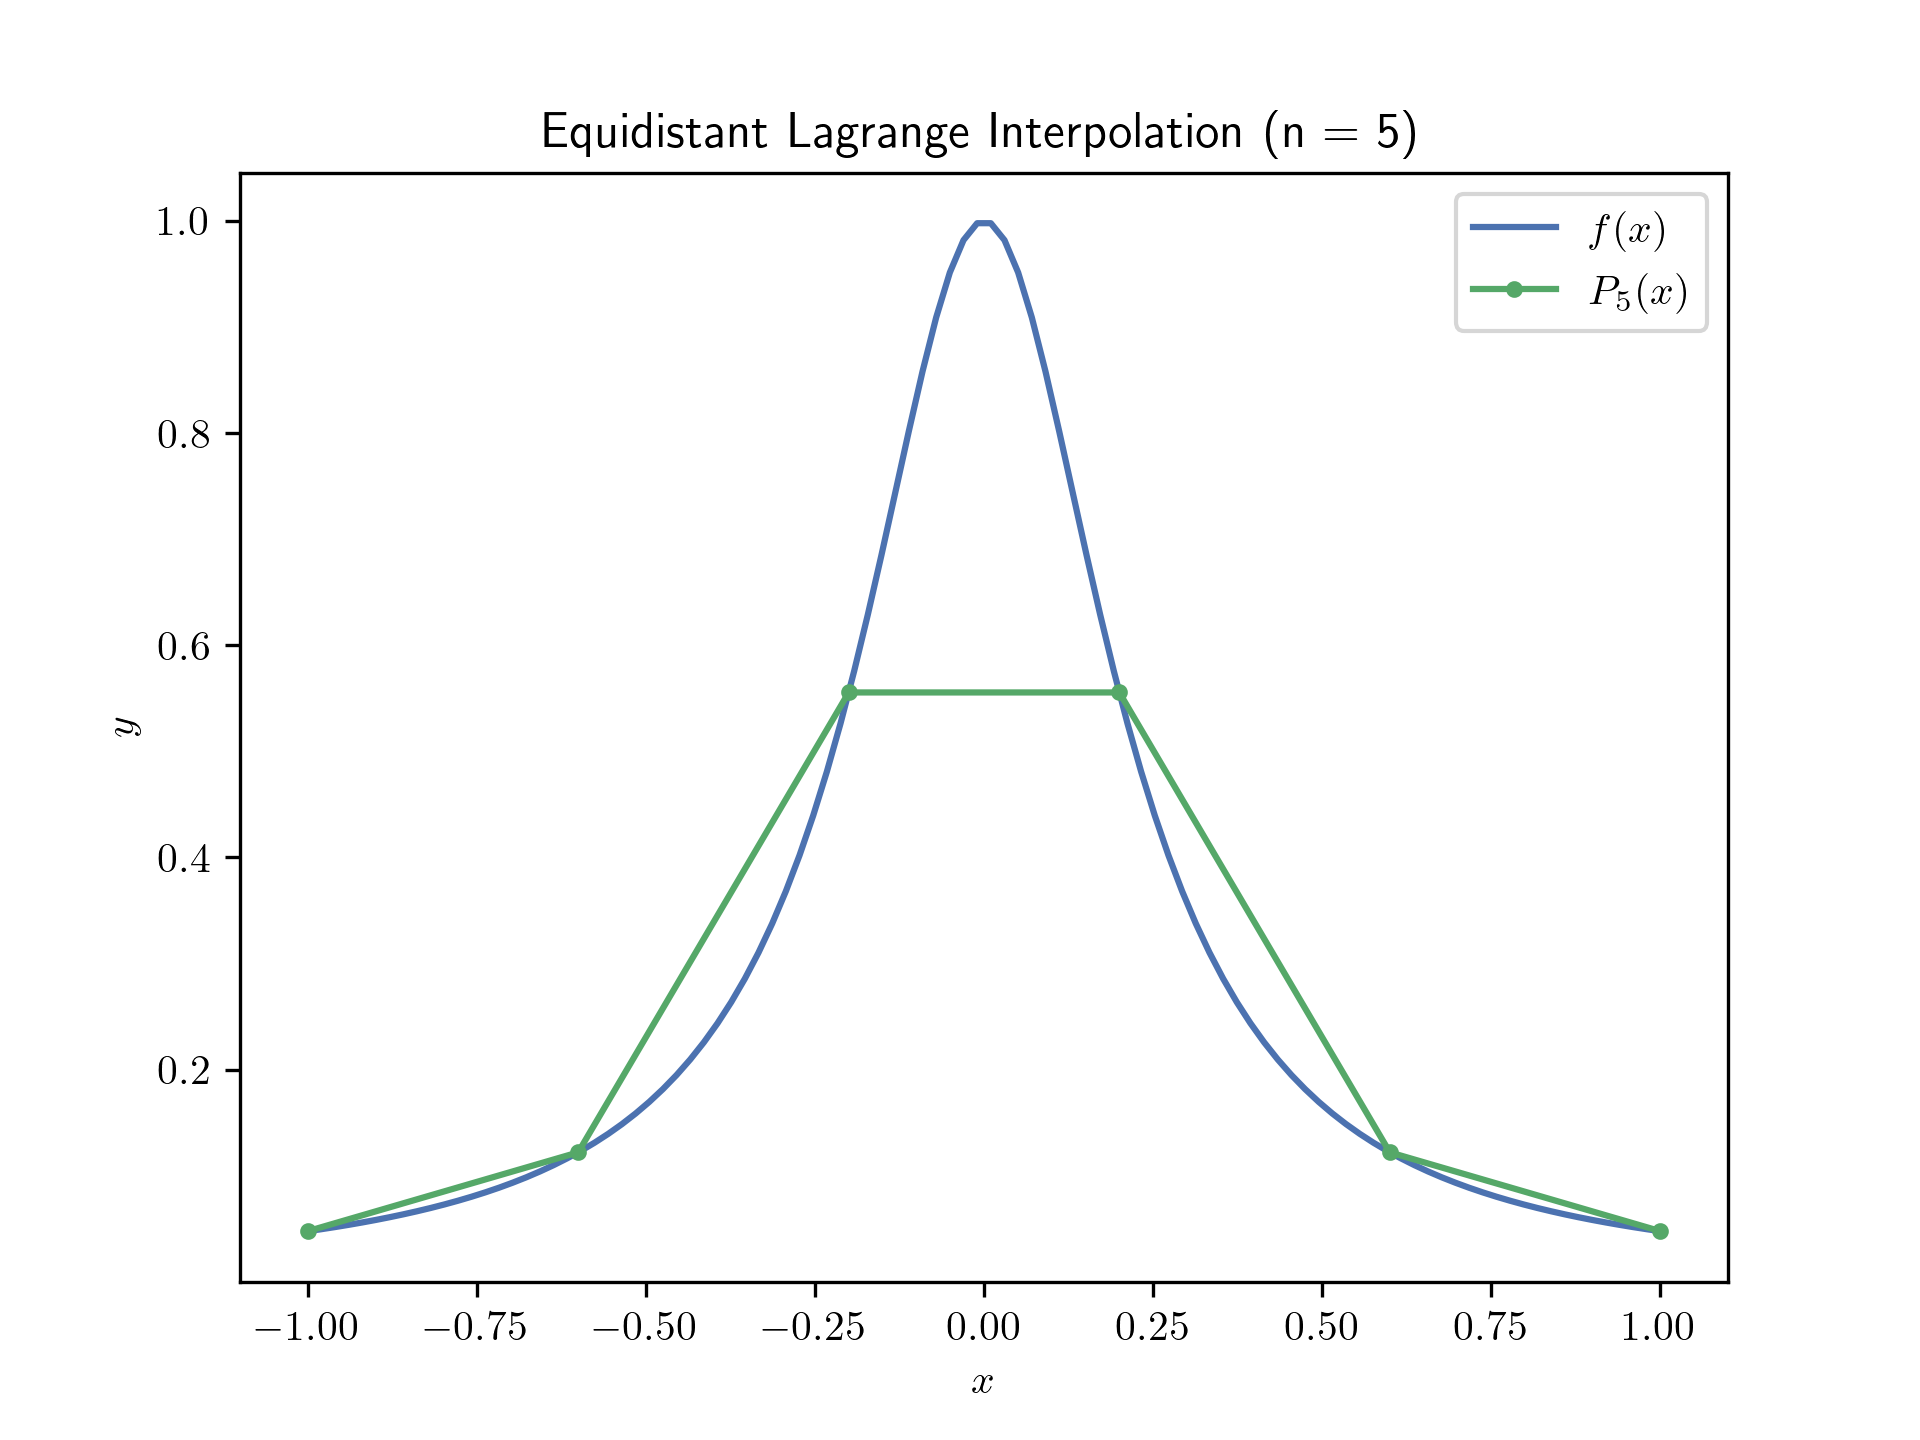
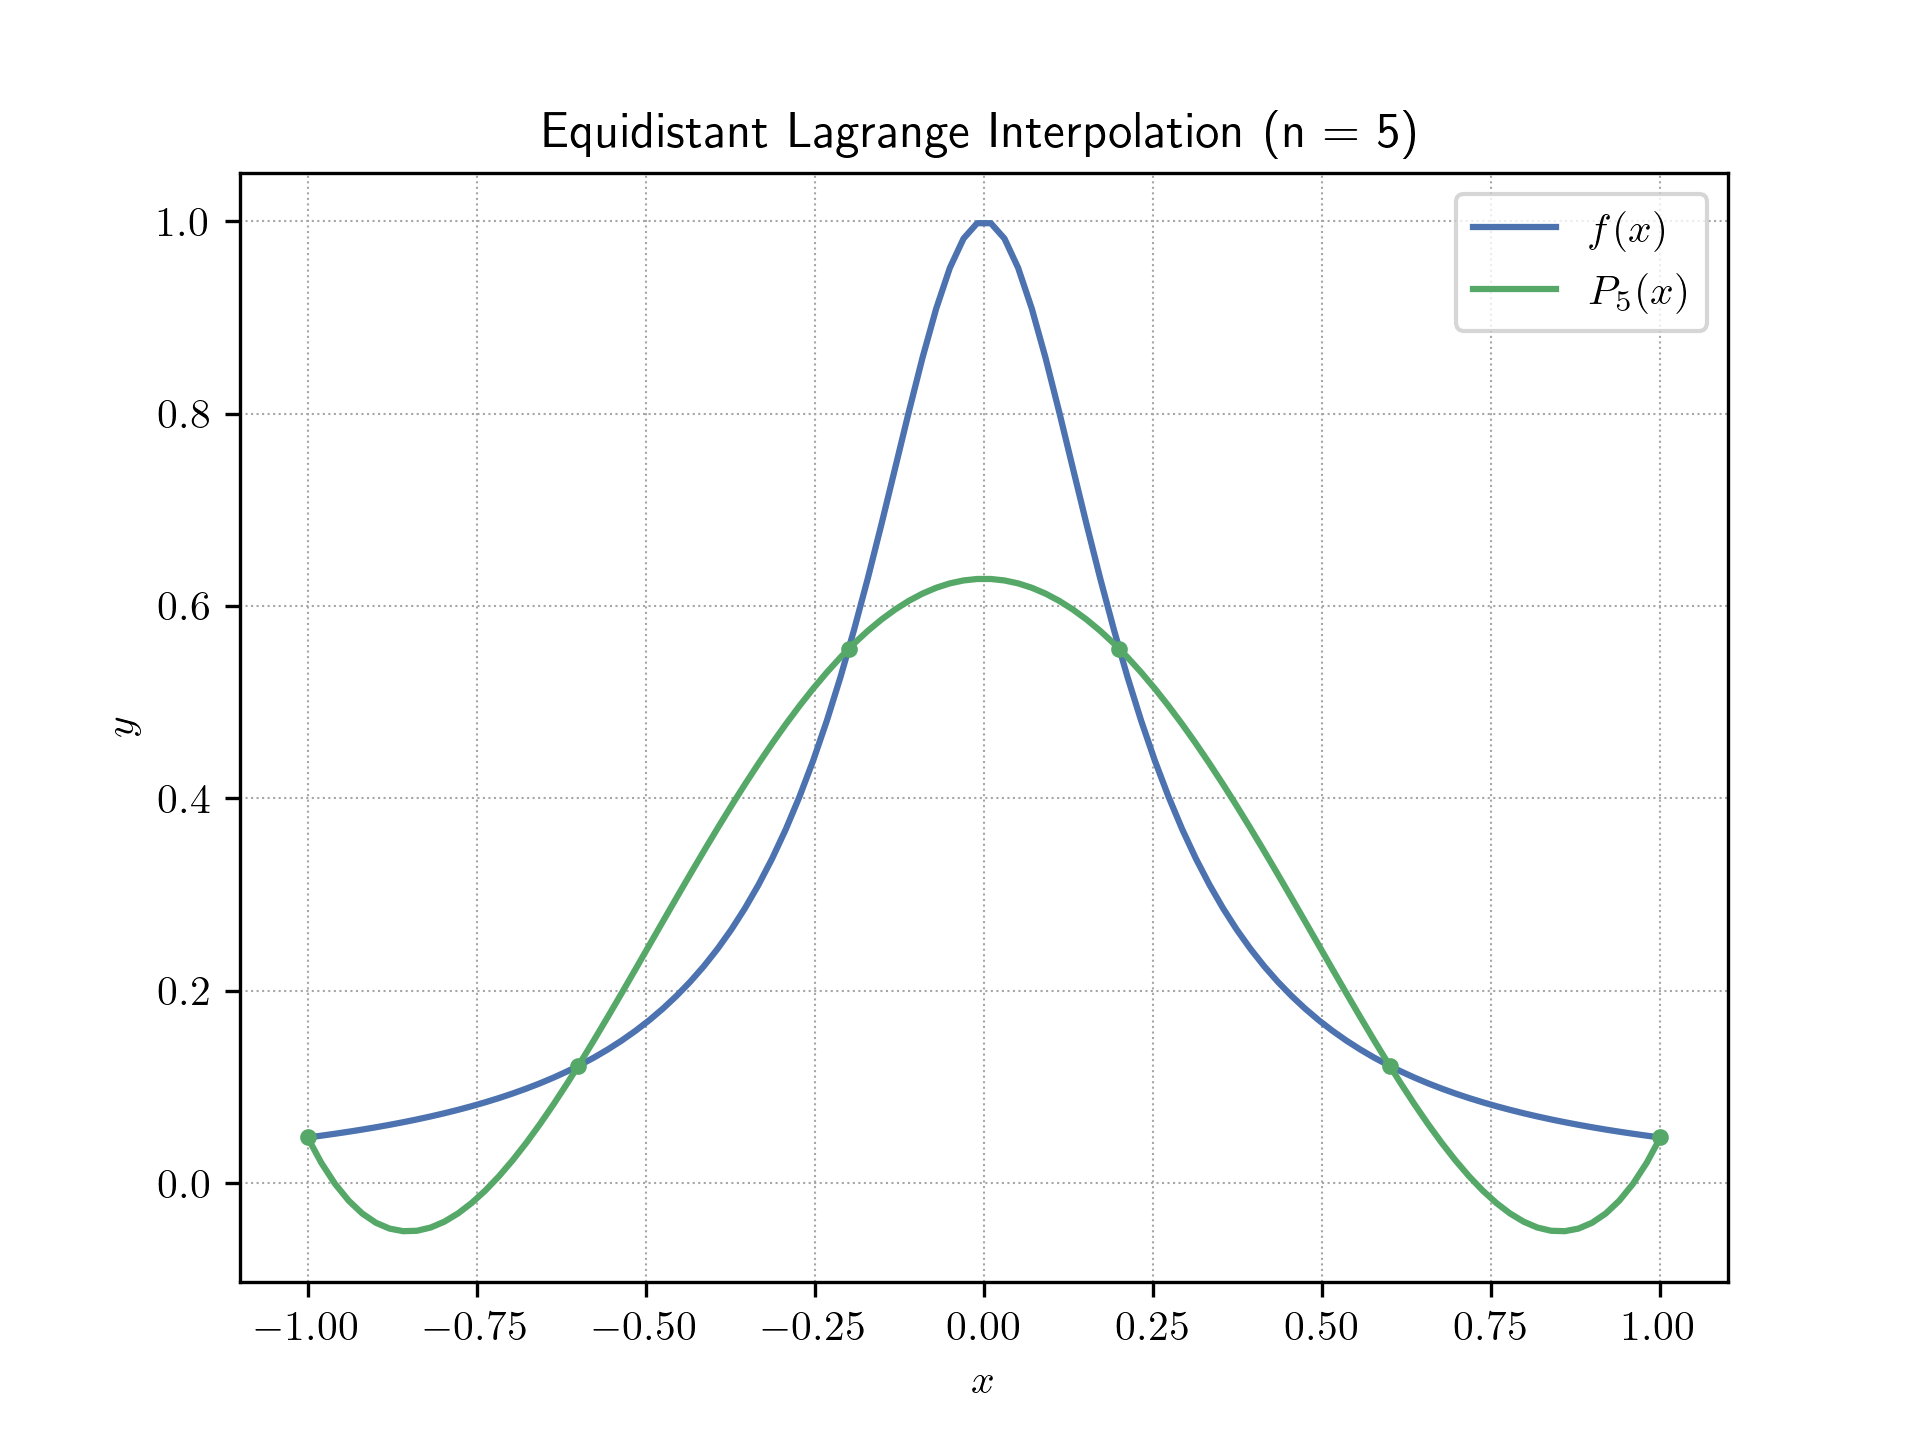
Add Figures Class and Equation Creation
This commit introduces a `Figure` class to streamline the process of
generating and saving plots. Plotting function calls have been
refactored in the main script to utilize this new class.

Additionally, a function to generate the Lagrange polynomial in LaTeX
format has been implemented. Generated equations are written to txt
files in the main method.

diff --git a/assignment_2/assignment_2.py b/assignment_2/assignment_2.py
@@ -1,6 +1,7 @@
 import math
 import numpy as np
 import matplotlib.pyplot as plt
+from figures import Figure
 
 
 def f(x):
@@ -40,98 +41,133 @@ def calculate_lagrange(nodes, a, x):
     return y
 
 
-def calculate_lagrange_output(nodes):
+def generate_equation(nodes, degree):
     a = lagrange_coefficients(nodes)
-    y_coordinates = np.array([calculate_lagrange(nodes, a, x) for x in nodes])
+    equation = f"$P_{degree}(x) = {a[0]}"
+    w = [(f"(x - {xi})") for xi in nodes]
+    b = ""
+
+    for i in range(1, len(a)):
+        for j in range(i):
+            b += w[j]
+        equation += f" + {a[i]}{b}"
+        b = ""
+
+    return equation + "$"
+
+
+def calculate_lagrange_output(nodes, x_coords=[]):
+    a = lagrange_coefficients(nodes)
+    if len(x_coords) == 0:
+        x_coords = nodes
+    y_coordinates = np.array([calculate_lagrange(nodes, a, x) for x in x_coords])
 
     return y_coordinates
 
 
 def chebyshev_nodes(n):
     nodes = np.array(
-        [(math.cos((2 * k - 1) * math.pi / (2 * n))) for k in range(1, n+1)]
+        [(math.cos((2 * k - 1) * math.pi / (2 * n))) for k in range(1, n + 1)]
     )
 
     return nodes
 
-def plot_functions(x_sets, y_sets, color_nums, markers, labels, title="", xlabel=r"$x$", ylabel=r"$y$"):
-    # Enable Latex
-    plt.rcParams["text.usetex"] = True
-    # Styling
-    plt.style.use("seaborn-v0_8-deep")
-    plt.rc("grid", color="#a6a6a6", linestyle="dotted", linewidth=0.5)
-    prop_cycle = plt.rcParams['axes.prop_cycle']
-    default_colors = prop_cycle.by_key()['color']
-    
-    total_functions = len(x_sets)
-    fig, ax = plt.subplots()
-    for i in range(total_functions):
-        ax.plot(x_sets[i], y_sets[i], color=default_colors[color_nums[i]], marker=markers[i], label=labels[i])
-
-    ax.set_title(title)
-    ax.set_xlabel(xlabel)
-    ax.set_ylabel(ylabel)
-    ax.legend()
-    return fig
 
 if __name__ == "__main__":
     # Question 2
+    # NOTE: 2.2 and 2.3 are to be executed independently, 
+    # comment out one when executing the other.
+    title = "Equidistant Lagrange Interpolation"
     x = np.linspace(-1, 1, 100)
     y = f(x)
+    fig_f = Figure(x, y, r"$f(x)$")
 
     # Question 2.2 (Equidistant Nodes)
-    # n+1 nodes for P_n
-    five_x = np.linspace(-1, 1, 6)
-    five_y = calculate_lagrange_output(five_x)
+    #-----------------------------------------------------------
+    # nodes_deg_5 = np.linspace(-1, 1, 6)
+    # y_nodes_5 = calculate_lagrange_output(nodes_deg_5)
+    # y_poly_5 = calculate_lagrange_output(nodes_deg_5, x)
+    # f1 = Figure(x, y_poly_5, r"$P_5(x)$", 1)
+    # f2 = Figure(nodes_deg_5, y_nodes_5, "", 1, ".", "")
 
-    ten_x = np.linspace(-1, 1, 11)
-    ten_y = calculate_lagrange_output(ten_x)
+    # nodes_deg_10 = np.linspace(-1, 1, 11)
+    # y_nodes_10 = calculate_lagrange_output(nodes_deg_10)
+    # y_poly_10 = calculate_lagrange_output(nodes_deg_10, x)
+    # f3 = Figure(x, y_poly_10, r"$P_{10}(x)$", 2)
+    # f4 = Figure(nodes_deg_10, y_nodes_10, "", 2, ".", "")
 
-    twenty_x = np.linspace(-1, 1, 21)
-    twenty_y = calculate_lagrange_output(twenty_x)
+    # nodes_deg_20 = np.linspace(-1, 1, 21)
+    # y_nodes_20 = calculate_lagrange_output(nodes_deg_20)
+    # y_poly_20 = calculate_lagrange_output(nodes_deg_20, x)
+    # f5 = Figure(x, y_poly_20, r"$P_{20}(x)$", 3)
+    # f6 = Figure(nodes_deg_20, y_nodes_20, "", 3, ".", "")
+
+    # # Merge and plot figures
+    # fig1 = fig_f.copy().merge([f1, f2], title + " (n = 5)")
+    # fig2 = fig_f.copy().merge([f3, f4], title + " (n = 10)")
+    # fig3 = fig_f.copy().merge([f5, f6], title + " (n = 20)")
+    # fig4 = fig_f.copy().merge([f1, f3, f5])
+    # fig1.get_figure('./plots_2/q2_2/p5.png')
+    # fig2.get_figure('./plots_2/q2_2/p10.png')
+    # fig3.get_figure('./plots_2/q2_2/p20.png')
+    # fig4.get_figure('./plots_2/q2_2/all.png')
+
+    # # Generate and save equations to a text file
+    # equations = [
+    #     generate_equation(nodes_deg_5, 5),
+    #     generate_equation(nodes_deg_10, 10),
+    #     generate_equation(nodes_deg_20, 20),
+    # ]
     
-    x_sets = [x, five_x, ten_x, twenty_x]
-    y_sets = [y, five_y, ten_y, twenty_y]
-    labels = [r"$f(x)$",r"$P_5(x)$",r"$P_{10}(x)$",r"$P_{20}(x)$"]
-    title = 'Equidistant Lagrange Interpolation'
-    
-    fig1 = plot_functions(x_sets[:2], y_sets[:2], [0,1], ['','.'], labels[:2], title+" (n = 5)")
-    fig2 = plot_functions(x_sets[:3:2], y_sets[:3:2], [0,2], ['','.'], labels[:3:2], title+" (n = 10)")
-    fig3 = plot_functions(x_sets[:4:3], y_sets[:4:3], [0,3], ['','.'],labels[:4:3], title+" (n = 20)")
-    fig4 = plot_functions(x_sets, y_sets, [i for i in range(4)], ['','','',''], labels, title)
-    
-    # Save Figures
-    # fig1.savefig('<path>/plots_2/p5.png', dpi = 300)
-    # fig2.savefig('<path>/plots_2/p10.png', dpi = 300)
-    # fig3.savefig('<path>/plots_2/p20.png', dpi = 300)
-    # fig4.savefig('<path>/plots_2/all.png', dpi = 300)
-    
-    plt.show()
-    
+    # with open("/Users/User/Repos/numerical_analysis/assignment_2/plots_2/q2_2/lagrange_equations.txt", "w") as f:
+    #     for eq in equations:
+    #         f.write(eq + "\n")
+
+    # plt.show()
+    #-----------------------------------------------------------
+
     # Question 2.3 (Chebyshev Nodes)
-    five_x = chebyshev_nodes(6)
-    five_y = calculate_lagrange_output(five_x)
+    #-----------------------------------------------------------
+    # title = "Chebyshev Lagrange Interpolation"
 
-    ten_x = chebyshev_nodes(11)
-    ten_y = calculate_lagrange_output(ten_x)
+    # nodes_deg_5 = chebyshev_nodes(6)
+    # y_nodes_5 = calculate_lagrange_output(nodes_deg_5)
+    # y_poly_5 = calculate_lagrange_output(nodes_deg_5, x)
+    # f1 = Figure(x, y_poly_5, r"$P_5(x)$", 1)
+    # f2 = Figure(nodes_deg_5, y_nodes_5, "", 1, ".", "")
 
-    twenty_x = chebyshev_nodes(21)
-    twenty_y = calculate_lagrange_output(twenty_x)
+    # nodes_deg_10 = chebyshev_nodes(11)
+    # y_nodes_10 = calculate_lagrange_output(nodes_deg_10)
+    # y_poly_10 = calculate_lagrange_output(nodes_deg_10, x)
+    # f3 = Figure(x, y_poly_10, r"$P_{10}(x)$", 2)
+    # f4 = Figure(nodes_deg_10, y_nodes_10, "", 2, ".", "")
+
+    # nodes_deg_20 = chebyshev_nodes(21)
+    # y_nodes_20 = calculate_lagrange_output(nodes_deg_20)
+    # y_poly_20 = calculate_lagrange_output(nodes_deg_20, x)
+    # f5 = Figure(x, y_poly_20, r"$P_{20}(x)$", 3)
+    # f6 = Figure(nodes_deg_20, y_nodes_20, "", 3, ".", "")
+
+    # # Merge and plot figures
+    # fig1 = fig_f.copy().merge([f1, f2], title + " (n = 5)")
+    # fig2 = fig_f.copy().merge([f3, f4], title + " (n = 10)")
+    # fig3 = fig_f.copy().merge([f5, f6], title + " (n = 20)")
+    # fig4 = fig_f.copy().merge([f1, f3, f5])
+    # fig1.get_figure('./plots_2/q2_3/chebyshev_p5.png')
+    # fig2.get_figure('./plots_2/q2_3/chebyshev_p10.png')
+    # fig3.get_figure('./plots_2/q2_3/chebyshev_p20.png')
+    # fig4.get_figure('./plots_2/q2_3/chebyshev_all.png')
+
+    # # Generate and save equations to a text file
+    # equations = [
+    #     generate_equation(nodes_deg_5, 5),
+    #     generate_equation(nodes_deg_10, 10),
+    #     generate_equation(nodes_deg_20, 20),
+    # ]
     
-    x_sets = [x, five_x, ten_x, twenty_x]
-    y_sets = [y, five_y, ten_y, twenty_y]
-    labels = [r"$f(x)$",r"$P_5(x)$",r"$P_{10}(x)$",r"$P_{20}(x)$"]
-    title = 'Chebyshev Lagrange Interpolation'
-    
-    fig1 = plot_functions(x_sets[:2], y_sets[:2], [0,1], ['','.'], labels[:2], title+" (n = 5)")
-    fig2 = plot_functions(x_sets[:3:2], y_sets[:3:2], [0,2], ['','.'], labels[:3:2], title+" (n = 10)")
-    fig3 = plot_functions(x_sets[:4:3], y_sets[:4:3], [0,3], ['','.'],labels[:4:3], title+" (n = 20)")
-    fig4 = plot_functions(x_sets, y_sets, [i for i in range(4)], ['','','',''], labels, title)
-    
-    # Save Figures
-    # fig1.savefig('<path>/plots_2/q2_3/chebyshev_p5.png', dpi = 300)
-    # fig2.savefig('<path>/plots_2/q2_3/chebyshev_p10.png', dpi = 300)
-    # fig3.savefig('<path>/plots_2/q2_3/chebyshev_p20.png', dpi = 300)
-    # fig4.savefig('<path>/plots_2/q2_3/chebyshev_all.png', dpi = 300)
-    
-    plt.show()
+    # with open("/Users/User/Repos/numerical_analysis/assignment_2/plots_2/q2_3/lagrange_equations_chebyshev.txt", "w") as f:
+    #     for eq in equations:
+    #         f.write(eq + "\n")
+
+    # plt.show()
+    #-----------------------------------------------------------

diff --git a/assignment_2/figures.py b/assignment_2/figures.py
@@ -1,0 +1,137 @@
+import matplotlib.pyplot as plt
+import numpy as np
+import copy
+
+def append_strings(attribute, length, string=""):
+    if type(attribute) is str:
+        return [attribute]
+    elif not attribute:
+        return [string for _ in range(length)]
+    else:
+        return attribute
+
+
+class Figure:
+    def __init__(
+        self,
+        x_sets,
+        y_sets,
+        labels=[],
+        colors=[],
+        markers=[],
+        linestyles=[],
+        title="",
+        xlabel=r"$x$",
+        ylabel=r"$y$",
+    ):
+        plt.style.use("seaborn-v0_8-deep")
+        prop_cycle = plt.rcParams["axes.prop_cycle"]
+        self.default_colors = prop_cycle.by_key()["color"]
+
+        if not isinstance(x_sets[0], (np.ndarray, list)):
+            x_sets = [x_sets]
+        self.x_sets = x_sets
+
+        if not isinstance(y_sets[0], (np.ndarray, list)):
+            y_sets = [y_sets]
+        self.y_sets = y_sets
+
+        length = len(x_sets)
+
+        self.labels = append_strings(labels, length)
+
+        if not colors:
+            self.current_color = 0
+            self.colors = []
+            for i in range(length):
+                self.colors += [self.current_color % len(self.default_colors)]
+                self.current_color += 1
+        else:
+            if type(colors) is not list:
+                colors = [colors]
+            self.colors = colors
+            self.current_color = colors[-1]
+
+        self.markers = append_strings(markers, length)
+        self.linestyles = append_strings(linestyles, length, "-")
+
+        self.title = title
+        self.xlabel = xlabel
+        self.ylabel = ylabel
+
+    def addFunctions(
+        self, x_sets, y_sets, labels=[], colors=[], markers=[], linestyles=[]
+    ):
+        if not isinstance(x_sets[0], (np.ndarray, list)):
+            x_sets = [x_sets]
+        if not isinstance(y_sets[0], (np.ndarray, list)):
+            y_sets = [y_sets]
+
+        self.x_sets += x_sets
+        self.y_sets += y_sets
+
+        length = len(x_sets)
+
+        if not colors:
+            for i in range(length):
+                self.current_color += 1
+                self.colors += [self.current_color % len(self.default_colors)]
+        else:
+            if type(colors) is not list:
+                colors = [colors]
+            self.colors += colors
+            self.current_color = colors[-1]
+
+        self.markers += append_strings(markers, length)
+        self.labels += append_strings(labels, length)
+        self.linestyles += append_strings(linestyles, length, "-")
+
+    def get_figure(self, path=""):
+        # Enable Latex
+        plt.rcParams["text.usetex"] = True
+        plt.style.use("seaborn-v0_8-deep")
+        plt.rc("grid", color="#a6a6a6", linestyle="dotted", linewidth=0.5)
+
+        total_functions = len(self.x_sets)
+        fig, ax = plt.subplots()
+        for i in range(total_functions):
+            ax.plot(
+                self.x_sets[i],
+                self.y_sets[i],
+                color=self.default_colors[self.colors[i]],
+                marker=self.markers[i],
+                label=self.labels[i],
+                linestyle=self.linestyles[i],
+            )
+
+        ax.set_title(self.title)
+        ax.set_xlabel(self.xlabel)
+        ax.set_ylabel(self.ylabel)
+        ax.legend()
+        ax.grid(True)
+
+        if path:
+            fig.savefig(path, dpi=300)
+
+        return fig
+
+    def copy(self):
+        return copy.deepcopy(self)
+
+    def merge(self, figs, new_title=""):
+        # Accept a single Figure or a list of Figures
+        if not isinstance(figs, list):
+            figs = [figs]
+
+        for i in range(len(figs)):
+            self.x_sets += figs[i].x_sets
+            self.y_sets += figs[i].y_sets
+            self.labels += figs[i].labels
+            self.colors += figs[i].colors
+            self.markers += figs[i].markers
+            self.linestyles += figs[i].linestyles
+            
+        if new_title:
+            self.title = new_title
+
+        return self
